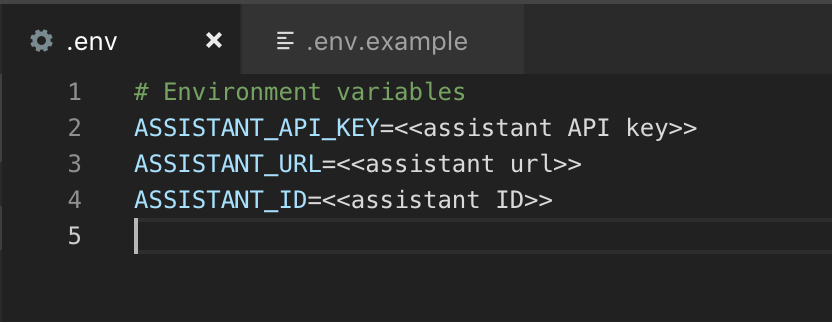
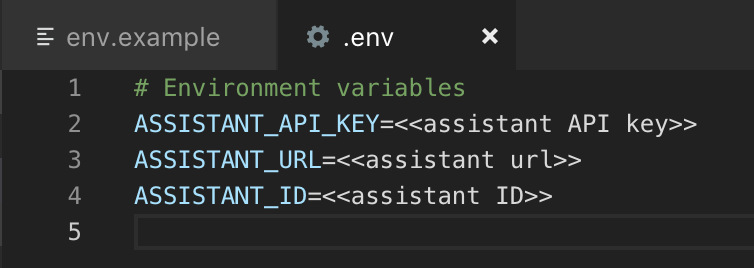
Modifies README.md
- renames '.env.example' to 'env.example' so it is visible
- updates screenshot related to 'env.example'
- fixes instructions

diff --git a/README.md b/README.md
@@ -10,6 +10,7 @@ The following components are required to effectively use this repository:
 - A [IBM Watson Assistant](https://www.ibm.com/cloud/watson-assistant/) service instance
 - A target app or website into which the chatbot will be inserted
 - A Command Line Interface (CLI)
+- An installation of [Git](https://git-scm.com/book/en/v2/Getting-Started-Installing-Git)
 - An installation of the [IBM Cloud CLI](https://console.bluemix.net/docs/cli/index.html#overview)
 - A text editor or Integrated Development Environment (IDE) e.g. [VS Code](https://code.visualstudio.com/)
 - An up-to-date version of [Firefox](https://www.mozilla.org/en-US/firefox/new/) or [Google Chrome](https://www.google.com/chrome/?brand=CHBD&gclid=CjwKCAjwu5veBRBBEiwAFTqDwTggc345A8KxyUcNEmc1evvkxhRQDSb8WS-FLmDQUPOyqJZL-LCsrRoCVMQQAvD_BwE&gclsrc=aw.ds&dclid=CP7z2LWAjt4CFaO6swod1zsEsw)
@@ -52,12 +53,13 @@ The following components are required to effectively use this repository:
     - `git clone https://github.com/lukemccomb/watson-assistant-chatbot-ui.git`
 4.  **Navigate to the `watson-assistant-chatbot-ui` directory**
     - `cd watson-assistant-chatbot-ui`
-5.  **Open the `watson-assistant-chatbot-ui` repository in your IDE or text editor**
+5.  **Open the `watson-assistant-chatbot-ui` repository in your IDE or open a text editor if you are not using an IDE**
 6.  **Create a `.env` file**
 
-    1.  From your CLI or IDE, create an `.env` file  
-        <img src="./public/screenshots/5-a.png" alt="Image 5-a" width="600px"/>
-    2.  Copy all of the variables from the `.env.example` template into the new `.env` file
+    1.  From your CLI, IDE or tet editor, create an `.env` file  
+        ***NOTE: If using a text editor, create a new file with the title `.env` and save it to the `/watson-assistant-chatbot-ui` directory. Files prefixed with a '.' will be hidden on most operating systems so don't be alarmed if you do not see the file you created. To toggle the visibility of hidden files on OSX, when viewing a directory in Finder, press `COMMAND` + `SHIFT` + `'.'` . 
+        [Follow the directions on this page to view hidden files in Windows](https://support.microsoft.com/en-us/help/4028316/windows-view-hidden-files-and-folders-in-windows-10)***    
+    2.  Copy all of the variables from the `env.example` template into the new `.env` file  
         <img src="./public/screenshots/5-b.png" alt="Image 5-b" width="400px"/>
     3.  In your browser, navigate to the the Watson Assistant Service dashboard and click on 'Service credentials'  
         <img src="./public/screenshots/5-c.png" alt="Image 5-c" width="400px"/>
@@ -81,35 +83,37 @@ The following components are required to effectively use this repository:
         <img src="./public/screenshots/5-j.png" alt="Image 5-j" width="400px"/>
     13. Copy the 'Assistant ID' into the `ASSISTANT_ID` variable in the `.env` file  
         <img src="./public/screenshots/5-k.png" alt="Image 5-k" width="400px"/>  
-        <img src="./public/screenshots/5-l.png" alt="Image 5-l" width="400px"/>
+        <img src="./public/screenshots/5-l.png" alt="Image 5-l" width="400px"/>  
+    14. Save the `.env` file
 
 7.  **Update the `manifest.yml` file using your IDE or text editor**
 
-    1. In `manifest.yml`, change the `name` and `route` fields to match your app name which can be found on your IBM Cloud account dashboard  
+    1. In `manifest.yml`, change the `name` and `route` fields to match the name of your app you created in [Step 1.iii](#step_1-iii). This can be found on your IBM Cloud account dashboard  
         <img src="./public/screenshots/5-m.png" alt="Image 5-m" width="500px"/>
         <img src="./public/screenshots/5-n.png" alt="Image 5-n" width="400px"/>
     2. In `manifest.yml`, update the `services` list with the Watson Assistant service name which can also be found on your IBM Cloud account dashboard  
         <img src="./public/screenshots/5-o.png" alt="Image 5-o" width="400px"/>  
-        <img src="./public/screenshots/5-p.png" alt="Image 5-p" width="400px"/>
+        <img src="./public/screenshots/5-p.png" alt="Image 5-p" width="400px"/>  
+    3. Save the `manifest.yml` file
 
-8.  **Update the `static_store.js` file**
+8.  **Update the `static_store.js` file using your IDE or text editor**
 
-    1. In your browser, from you IBM Cloud account Dashboard, click on your Node.js Cloud Foundry App
+    1. In your browser, from your IBM Cloud account Dashboard, click on your Node.js Cloud Foundry App
         <img src="./public/screenshots/8-a.png" alt="Image 8-a" width="600px"/>
     2. Click the 'Visit App URL' link  
         <img src="./public/screenshots/8-b.png" alt="Image 8-b" width="600px"/>
     3. <a id="step_8iii">Copy the URL from the new tab that opens and paste it into the `DEV_HOST_URL` variable in `static_store.js`</a>  
-        ***NOTE: Make sure there is no trailing backslash at the end of the URL***  
+        ***NOTE: Make sure there is no trailing slash at the end of the URL***  
         <img src="./public/screenshots/8-c.png" alt="Image 8-c" width="400px"/>
         <img src="./public/screenshots/8-d.png" alt="Image 8-d" width="500px"/>  
+    4. Save the `static_store.js` file
 
 9.  **Push the modified code**
 
     1. Make sure you have saved the `.env`, `manifest.yml`, and `static_store.js` files
     2. In the CLI, login to IBM Cloud by running the command: `ibmcloud login`
-    3. Select the account on which you created the Node.js Cloud Foundry App
-    4. Target the Resource group, Organization and Space in which you created your Node.js Cloud Foundry App
-        - `imbcloud target -g {resource_group}`
+    3. If prompted to selected an account, select the account on which you created the Node.js Cloud Foundry App
+    4. Target the Organization and Space in which you created your Node.js Cloud Foundry App
         - `imbcloud target -o {organization}`
         - `imbcloud target -s {space}`
     5. From within this directory, run `ibmcloud app push {your-app-name}`, substituting `{your-app-name}` for the name of your app
